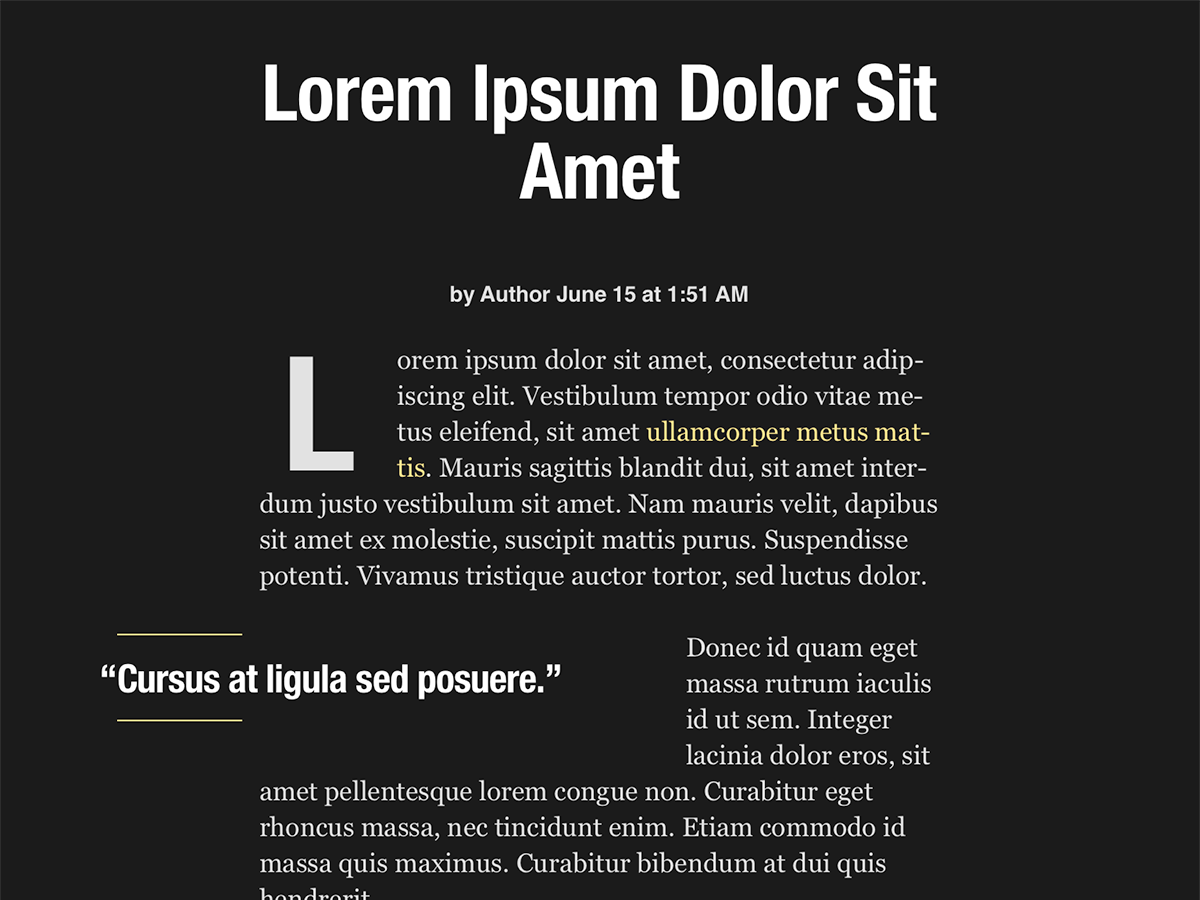
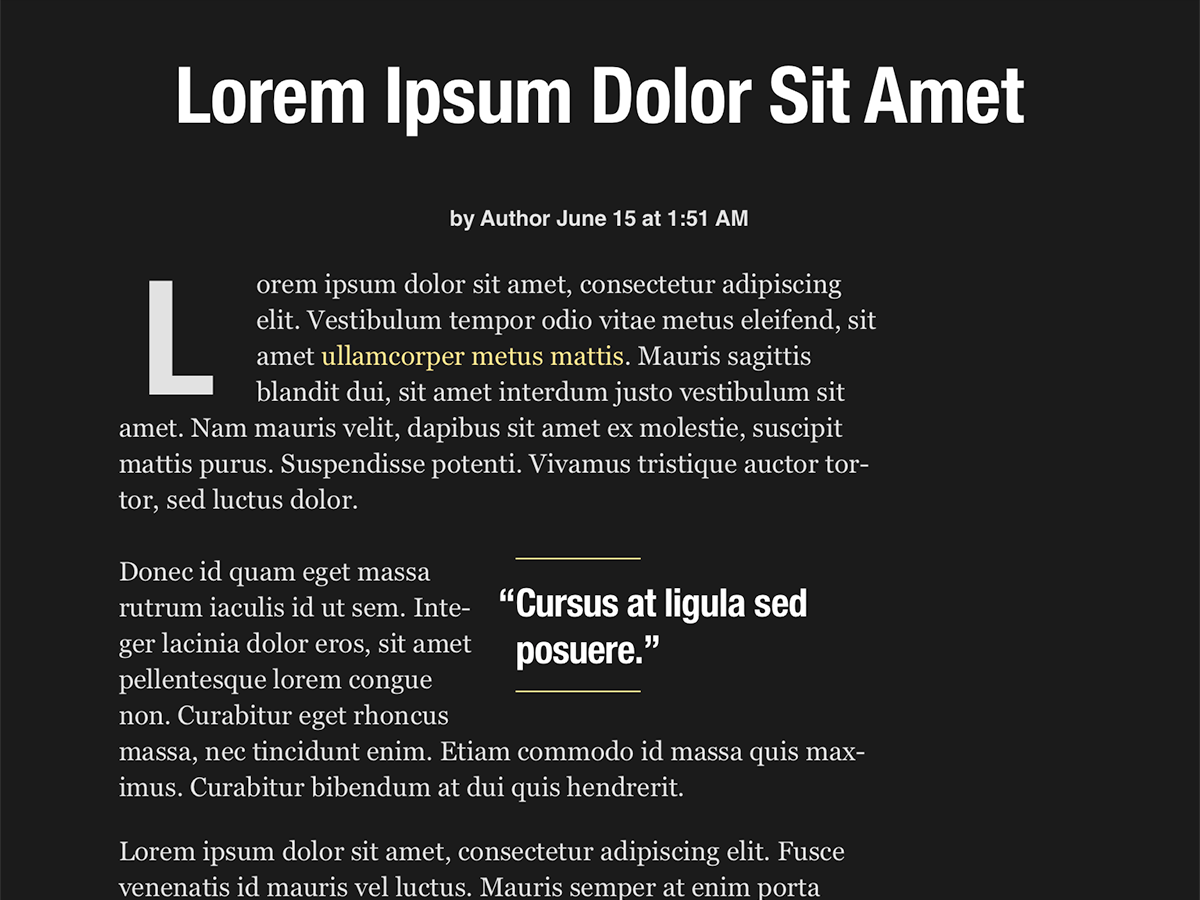
AN-78 Updates example themes (#392)
* Dark and Pastel themes are now left orientation, with new screenshots to match.
* Load Example Themes now loads the Default theme, if it was renamed or removed.

Changed region(s): [[0.0925, 0.3111, 0.7708, 1.0], [0.1233, 0.0622, 0.8633, 0.2489]]

diff --git a/includes/class-apple-news.php b/includes/class-apple-news.php
@@ -637,6 +637,7 @@ class Apple_News {
 			'classic' => __( 'Classic', 'apple-news' ),
 			'colorful' => __( 'Colorful', 'apple-news' ),
 			'dark' => __( 'Dark', 'apple-news' ),
+			'default' => __( 'Default', 'apple-news' ),
 			'modern' => __( 'Modern', 'apple-news' ),
 			'pastel' => __( 'Pastel', 'apple-news' ),
 		);
